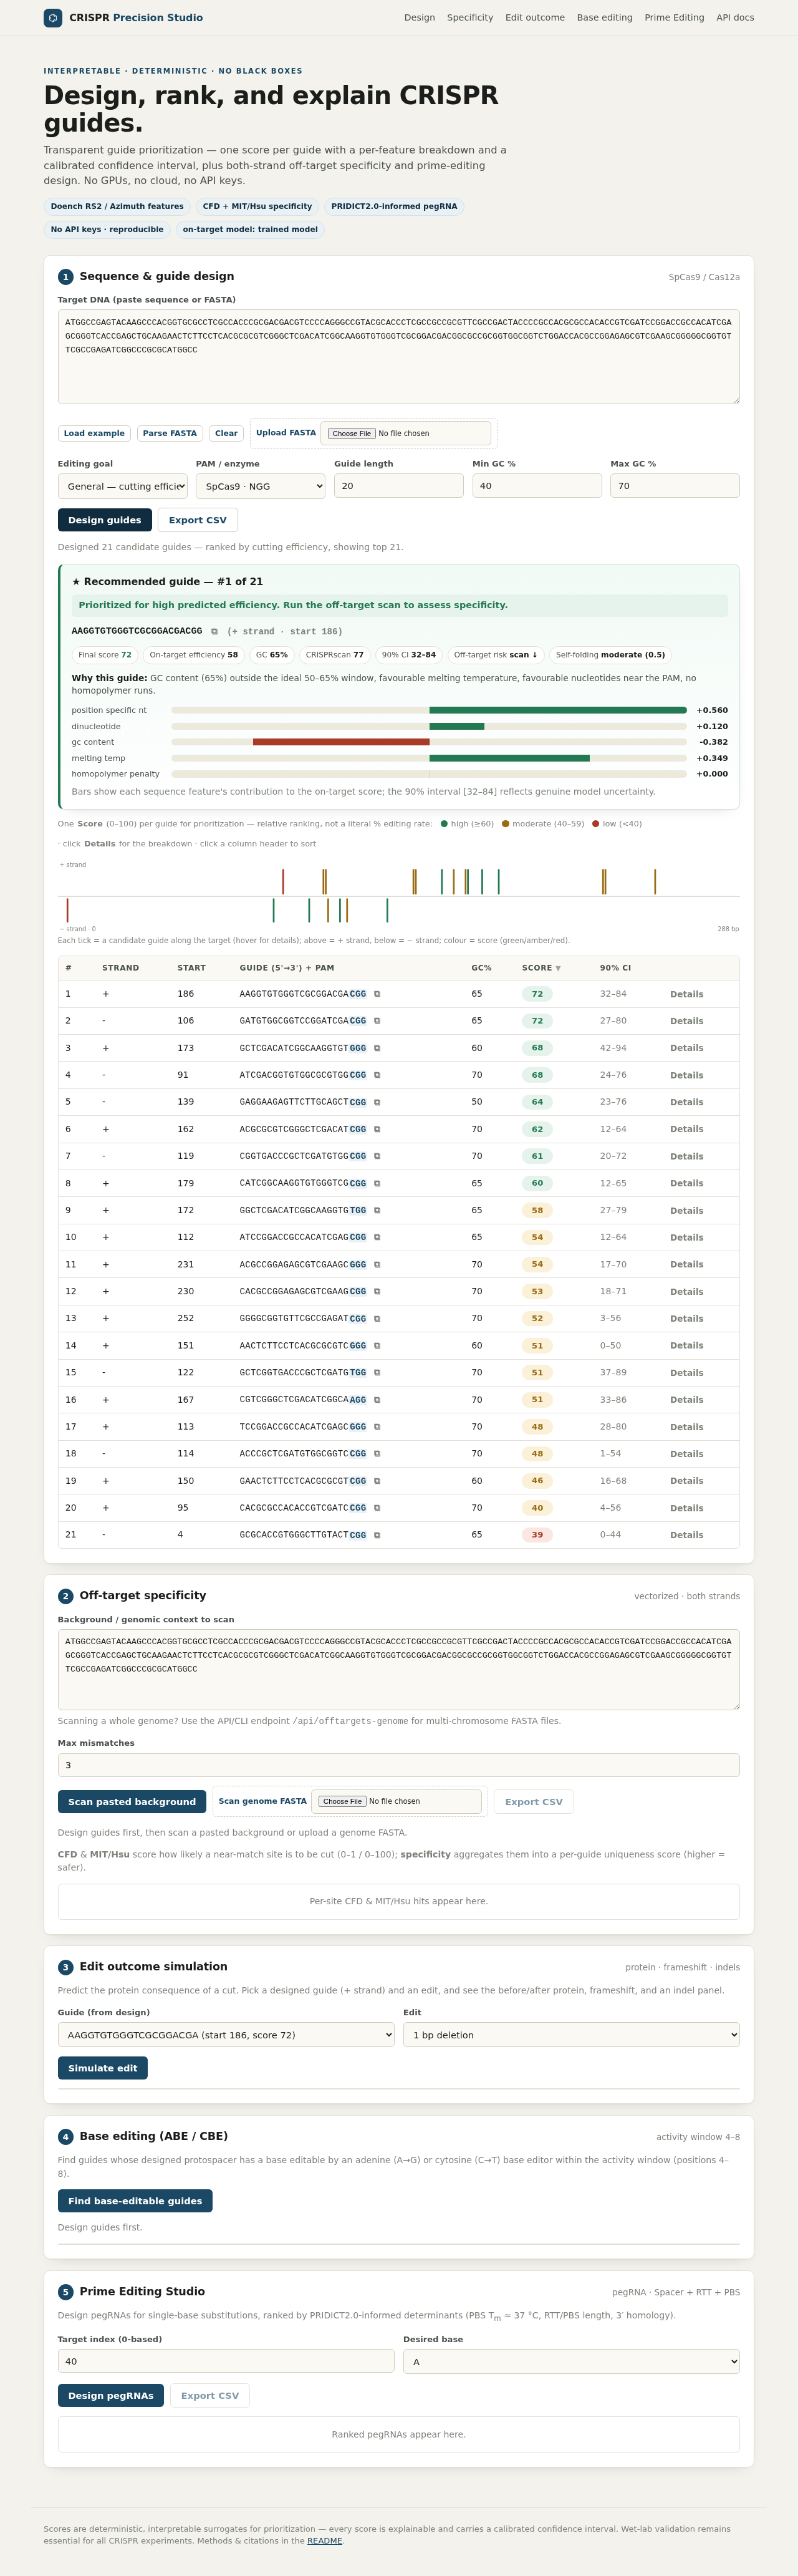
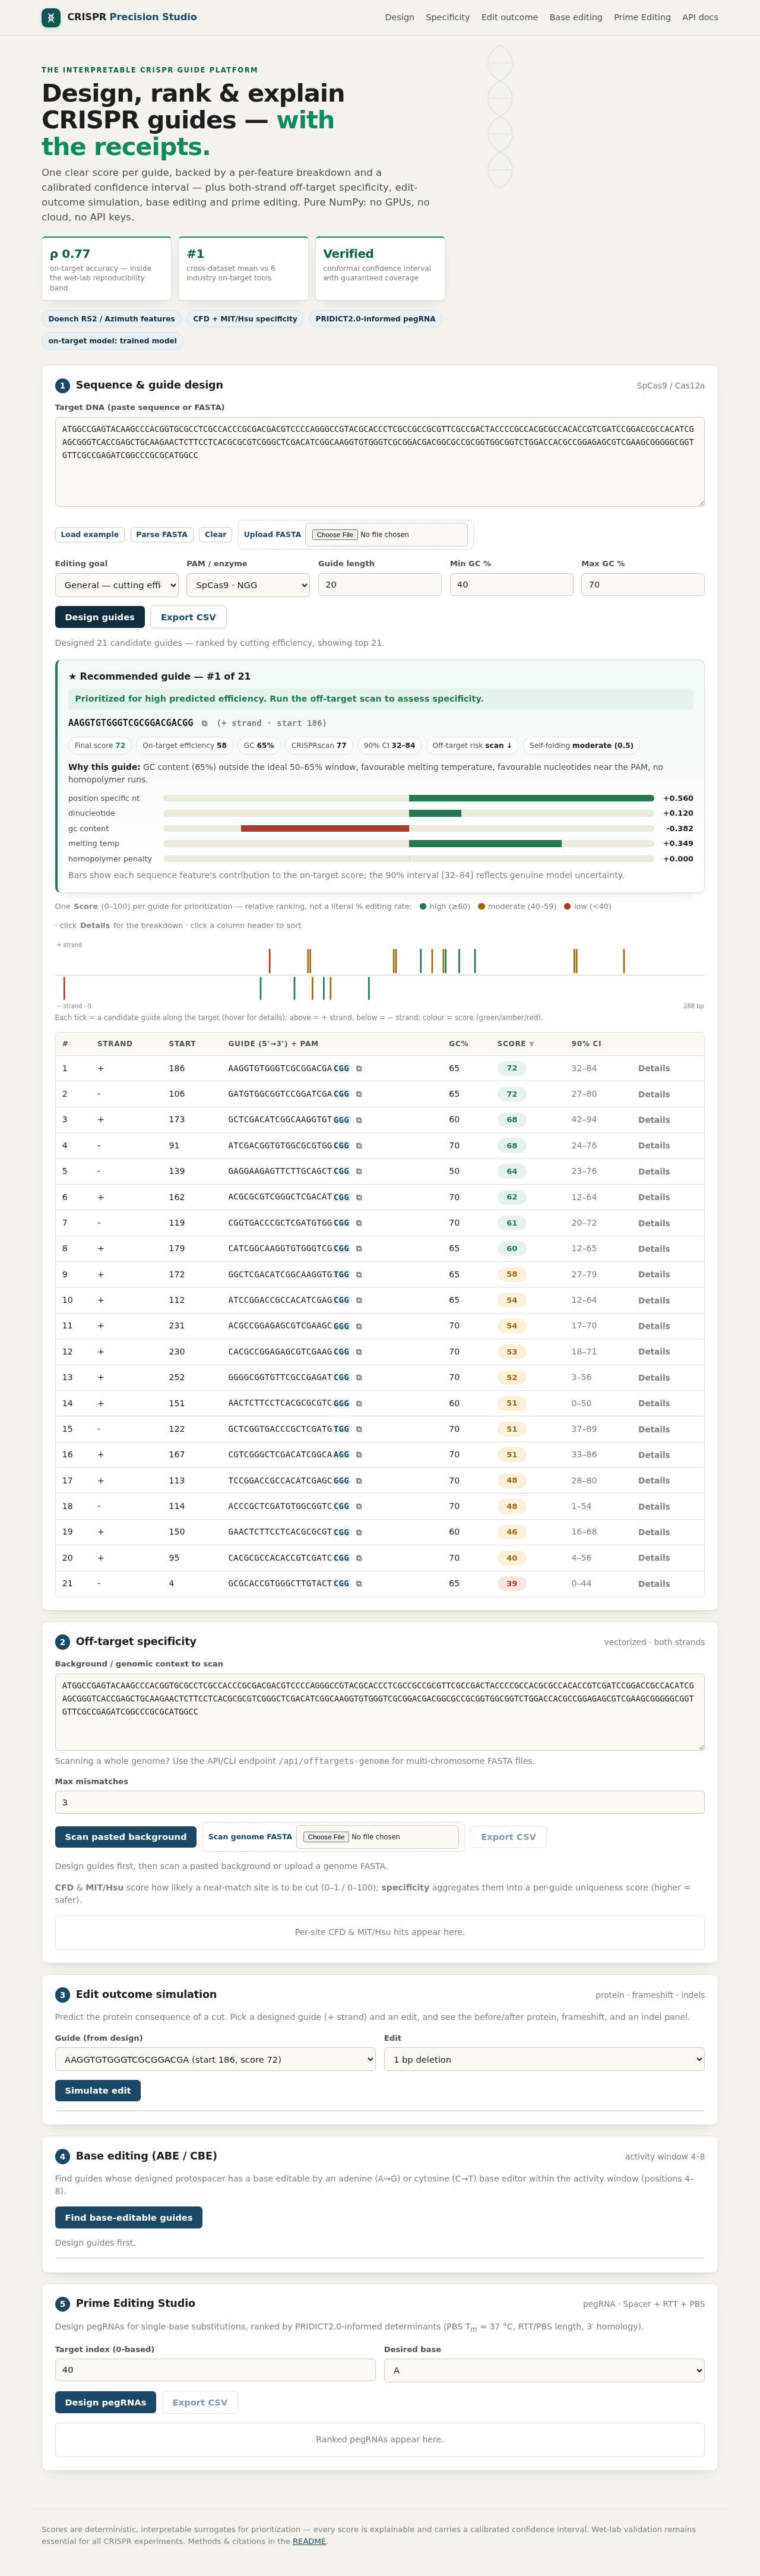
Rebrand benchmark, clarify README for users, and give the UI a real identity
Branding: the benchmark head-to-head now carries the product name "CRISPR
Precision Studio" instead of the generic "OURS", in both the script output and
the docs tables.

README clarity: add a plain-English "What it does" section up front (what it
does, the three differentiators, who it's for) so a first-time user understands
the tool before the accuracy methodology.

UI/UX (less generic, more branded):
- Real DNA double-helix logo mark (inline SVG) on a slate->emerald gradient tile,
  replacing the single glyph
- Signature precision-emerald accent alongside the slate blue
- Hero "proof strip" surfacing the measured differentiators up front:
  rho 0.77 on-target, #1 cross-dataset, verified conformal coverage
- Confident hero headline + subtle braided-helix background motif
- Responsive: proof strip stacks and helix hides on small screens
- Refreshed docs/ui.png screenshot

All 60 tests pass; benchmark and screenshot re-rendered.

Claude-Session: https://claude.ai/code/session_014tmrGNRuvv2ymjpm4A1Y1m

Changed region(s): [[0.0625, 0.0, 0.9375, 0.9683], [0.0625, 0.4998, 0.0938, 0.531]]

diff --git a/crispr_app/static/style.css b/crispr_app/static/style.css
@@ -21,6 +21,11 @@
   --brand-ink: #102d40;
   --brand-tint: #eaf1f5;
 
+  /* Signature accent — precision emerald, for the "proof" moments */
+  --accent: #0f8a5f;
+  --accent-ink: #0a6144;
+  --accent-tint: #e5f5ed;
+
   /* Semantic score heatmap */
   --good: #237a52;
   --good-bg: #e6f3ec;
@@ -67,14 +72,15 @@ body {
   gap: 0.7rem;
 }
 .brand-mark {
-  width: 30px; height: 30px;
+  width: 32px; height: 32px;
   display: grid; place-items: center;
-  border-radius: 8px;
-  background: var(--brand);
+  border-radius: 9px;
+  background: linear-gradient(150deg, var(--brand), var(--accent-ink));
   color: #fff;
-  font-size: 1rem;
+  box-shadow: 0 2px 6px -2px rgba(15, 138, 95, 0.5);
 }
-.brand-name { font-weight: 700; letter-spacing: -0.01em; }
+.brand-mark svg { width: 20px; height: 20px; }
+.brand-name { font-weight: 700; letter-spacing: -0.01em; font-size: 1.02rem; }
 .brand-name b { color: var(--brand); }
 .topbar nav { margin-left: auto; display: flex; gap: 1.2rem; }
 .topbar nav a {
@@ -88,23 +94,58 @@ body {
 /* ---- Layout ---- */
 main { max-width: 1180px; margin: 0 auto; padding: 1.5rem 1.25rem 4rem; }
 
-.hero { padding: 1.5rem 0 0.5rem; max-width: 760px; }
+.hero { position: relative; padding: 1.6rem 0 0.5rem; max-width: 820px; }
+.hero-helix {
+  position: absolute; top: -0.5rem; right: -0.5rem;
+  height: 240px; width: auto;
+  color: var(--brand);
+  opacity: 0.09;
+  pointer-events: none;
+}
 .eyebrow {
   text-transform: uppercase;
   letter-spacing: 0.14em;
   font-size: 0.72rem;
   font-weight: 700;
-  color: var(--brand);
+  color: var(--accent-ink);
 }
 .hero h1 {
-  font-size: clamp(1.7rem, 3.4vw, 2.5rem);
-  line-height: 1.1;
-  letter-spacing: -0.02em;
+  font-size: clamp(1.75rem, 3.6vw, 2.6rem);
+  line-height: 1.08;
+  letter-spacing: -0.025em;
   margin: 0.5rem 0 0.6rem;
+  max-width: 20ch;
 }
-.hero p { color: var(--ink-soft); font-size: 1.02rem; margin: 0; }
+.hero h1 .accent { color: var(--accent); }
+.hero p { color: var(--ink-soft); font-size: 1.04rem; margin: 0; max-width: 62ch; }
+
+/* Proof strip — surfaces the measured differentiators up front */
+.proofstrip {
+  display: grid;
+  grid-template-columns: repeat(3, minmax(0, 1fr));
+  gap: 0.7rem;
+  margin: 1.2rem 0 0.4rem;
+  max-width: 680px;
+}
+.proof {
+  border: 1px solid var(--line);
+  border-top: 2px solid var(--accent);
+  background: var(--surface);
+  border-radius: var(--radius-sm);
+  padding: 0.7rem 0.8rem 0.75rem;
+  box-shadow: var(--shadow);
+}
+.proof-num {
+  display: block;
+  font-size: 1.25rem; font-weight: 800;
+  letter-spacing: -0.02em;
+  color: var(--accent-ink);
+  font-variant-numeric: tabular-nums;
+}
+.proof-label { display: block; margin-top: 0.15rem; font-size: 0.76rem; color: var(--ink-faint); line-height: 1.35; }
+
 .provenance {
-  margin-top: 0.9rem;
+  margin-top: 1rem;
   display: flex; flex-wrap: wrap; gap: 0.5rem;
 }
 .tag {
@@ -311,6 +352,10 @@ footer a { color: var(--brand); }
 }
 @keyframes spin { to { transform: rotate(360deg); } }
 
+@media (max-width: 720px) {
+  .proofstrip { grid-template-columns: 1fr; }
+  .hero-helix { display: none; }
+}
 @media (max-width: 620px) {
   .topbar nav { display: none; }
   .card-head .sub { display: none; }

diff --git a/crispr_app/templates/index.html b/crispr_app/templates/index.html
@@ -10,7 +10,13 @@
   <body>
     <div class="topbar">
       <div class="topbar-inner">
-        <span class="brand-mark">⌬</span>
+        <span class="brand-mark" aria-hidden="true">
+          <svg viewBox="0 0 24 24" fill="none" stroke="currentColor" stroke-width="1.7" stroke-linecap="round">
+            <path d="M7 3c0 4 10 6 10 9s-10 5-10 9" />
+            <path d="M17 3c0 4-10 6-10 9s10 5 10 9" />
+            <path d="M8.4 7.2h7.2M8.4 16.8h7.2M7.4 12h9.2" opacity="0.85" />
+          </svg>
+        </span>
         <span class="brand-name">CRISPR <b>Precision Studio</b></span>
         <nav>
           <a href="#design">Design</a>
@@ -25,19 +31,37 @@
 
     <main>
       <section class="hero">
-        <div class="eyebrow">Interpretable · Deterministic · No black boxes</div>
-        <h1>Design, rank, and explain CRISPR guides.</h1>
+        <svg class="hero-helix" viewBox="0 0 120 260" fill="none" stroke="currentColor" aria-hidden="true">
+          <path d="M60 0C90 16 90 49 60 65C30 81 30 114 60 130C90 146 90 179 60 195C30 211 30 244 60 260" stroke-width="1.6" />
+          <path d="M60 0C30 16 30 49 60 65C90 81 90 114 60 130C30 146 30 179 60 195C90 211 90 244 60 260" stroke-width="1.6" />
+          <path d="M40 32h40M40 97h40M40 162h40M40 227h40" stroke-width="1.3" opacity="0.7" />
+        </svg>
+        <div class="eyebrow">The interpretable CRISPR guide platform</div>
+        <h1>Design, rank &amp; explain CRISPR guides — <span class="accent">with the receipts.</span></h1>
         <p>
-          Transparent guide prioritization — one score per guide with a
-          per-feature breakdown and a calibrated confidence interval, plus
-          both-strand off-target specificity and prime-editing design.
-          No GPUs, no cloud, no API keys.
+          One clear score per guide, backed by a per-feature breakdown and a
+          calibrated confidence interval — plus both-strand off-target
+          specificity, edit-outcome simulation, base editing and prime editing.
+          Pure NumPy: no GPUs, no cloud, no API keys.
         </p>
+        <div class="proofstrip">
+          <div class="proof">
+            <span class="proof-num">ρ 0.77</span>
+            <span class="proof-label">on-target accuracy — inside the wet-lab reproducibility band</span>
+          </div>
+          <div class="proof">
+            <span class="proof-num">#1</span>
+            <span class="proof-label">cross-dataset mean vs 6 industry on-target tools</span>
+          </div>
+          <div class="proof">
+            <span class="proof-num">Verified</span>
+            <span class="proof-label">conformal confidence interval with guaranteed coverage</span>
+          </div>
+        </div>
         <div class="provenance">
           <span class="tag">Doench RS2 / Azimuth features</span>
           <span class="tag">CFD + MIT/Hsu specificity</span>
           <span class="tag">PRIDICT2.0-informed pegRNA</span>
-          <span class="tag">No API keys · reproducible</span>
           <span class="tag" id="modelTag">on-target model: …</span>
         </div>
       </section>

diff --git a/scripts/benchmark_competitors.py b/scripts/benchmark_competitors.py
@@ -88,16 +88,17 @@ def main() -> None:
         per = [fn(data[n]) for n in DATASETS]
         print(f"{name:<24}" + "".join(f"{v:>12.3f}" for v in per) + f"{np.nanmean(per):>12.3f}")
 
-    row("OURS (shipped)", lambda rows: spearman(
+    row("CRISPR Precision Studio", lambda rows: spearman(
         [predict_on_target(g, up=up, down=down) for g, _, _, up, down in rows],
         [y for _, y, _, _, _ in rows]))
     for col, disp in COMPETITORS.items():
         row(disp, lambda rows, c=col: col_rho(rows, c))
 
     print("\nSpearman rho vs measured efficiency, identical guides. All datasets are")
-    print("held out for OURS (trained only on CRISPRon/Kim). Competitor scores are")
-    print("read verbatim from CRISPOR. Cross-dataset rho is intrinsically low for")
-    print("all tools; within-dataset OURS reaches 0.766 on the Kim set (wet-lab band).")
+    print("held out for CRISPR Precision Studio (trained only on CRISPRon/Kim).")
+    print("Competitor scores are read verbatim from CRISPOR. Cross-dataset rho is")
+    print("intrinsically low for all tools; within-dataset Precision Studio reaches")
+    print("0.766 on the Kim set (wet-lab reproducibility band).")
 
 
 if __name__ == "__main__":

diff --git a/README.md b/README.md
@@ -22,9 +22,33 @@ Transparent guide *prioritization*: interpretable on-target scoring, both-strand
 
 ## 📸 The interface
 
-![CRISPR Precision Studio UI](docs/ui.png?v=109d87fa)
+![CRISPR Precision Studio UI](docs/ui.png?v=aa0454bd)
 
 <sub>Rendered automatically by CI on every push — one **Score** per guide, with a per-feature **Details** breakdown.</sub>
+
+---
+
+## 🧭 What it does (in plain English)
+
+Paste a DNA sequence. **CRISPR Precision Studio** finds every possible guide RNA,
+**scores and ranks them** so you know which to try first — and, unlike most tools,
+**shows you *why*** each guide scored the way it did and **how confident** it is.
+It also checks each guide for off-target risk, and designs base-editing and
+prime-editing guides.
+
+**Three things make it different:**
+
+1. **One clear score, explained.** Every guide gets a single **0–100** ranking
+   score with a plain-language verdict and a per-feature breakdown — no black box.
+2. **It tells you when it's unsure.** Each score carries a calibrated confidence
+   interval with *mathematically guaranteed* coverage — not a bare number.
+3. **Accurate *and* honest.** ρ≈0.77 on-target (wet-lab-grade) and **#1
+   cross-dataset** vs six industry tools — every figure measured and reproducible,
+   never asserted.
+
+**Who it's for:** molecular biologists choosing guides for a knockout, knock-in,
+CRISPRi/a, base-edit or prime-edit experiment — running locally, with no GPU, no
+account and no API keys.
 
 ---
 
@@ -152,7 +176,7 @@ from CRISPOR; all datasets held out for our Kim-trained model):
 
 | Tool | doench2016 | chari2015 | morenoMateos | **mean** |
 |---|:---:|:---:|:---:|:---:|
-| **OURS (NumPy ridge)** | 0.263 | 0.440 | 0.220 | **0.307** |
+| **CRISPR Precision Studio** | 0.263 | 0.440 | 0.220 | **0.307** |
 | CRISPRscan | 0.108 | 0.123 | 0.579 | 0.270 |
 | Azimuth / Rule Set 2 | 0.269 | 0.381 | 0.120 | 0.257 |
 | Wang SVM · Chari · SSC · WU-CRISPR | — | — | — | 0.15–0.24 |

diff --git a/BENCHMARKS.md b/BENCHMARKS.md
@@ -14,7 +14,7 @@ generalisation test; competitor scores are read verbatim (no re-implementation).
 
 | Tool | doench2016 | chari2015 | morenoMateos | **mean** |
 |---|:---:|:---:|:---:|:---:|
-| **OURS (shipped, NumPy ridge)** | 0.263 | 0.440 | 0.220 | **0.307** |
+| **CRISPR Precision Studio (NumPy ridge)** | 0.263 | 0.440 | 0.220 | **0.307** |
 | CRISPRscan (Moreno-Mateos 2015) | 0.108 | 0.123 | 0.579¹ | 0.270 |
 | Azimuth / Rule Set 2 (Doench 2016) | 0.269² | 0.381 | 0.120 | 0.257 |
 | Chari (2015) | 0.121 | 0.457² | 0.145 | 0.241 |